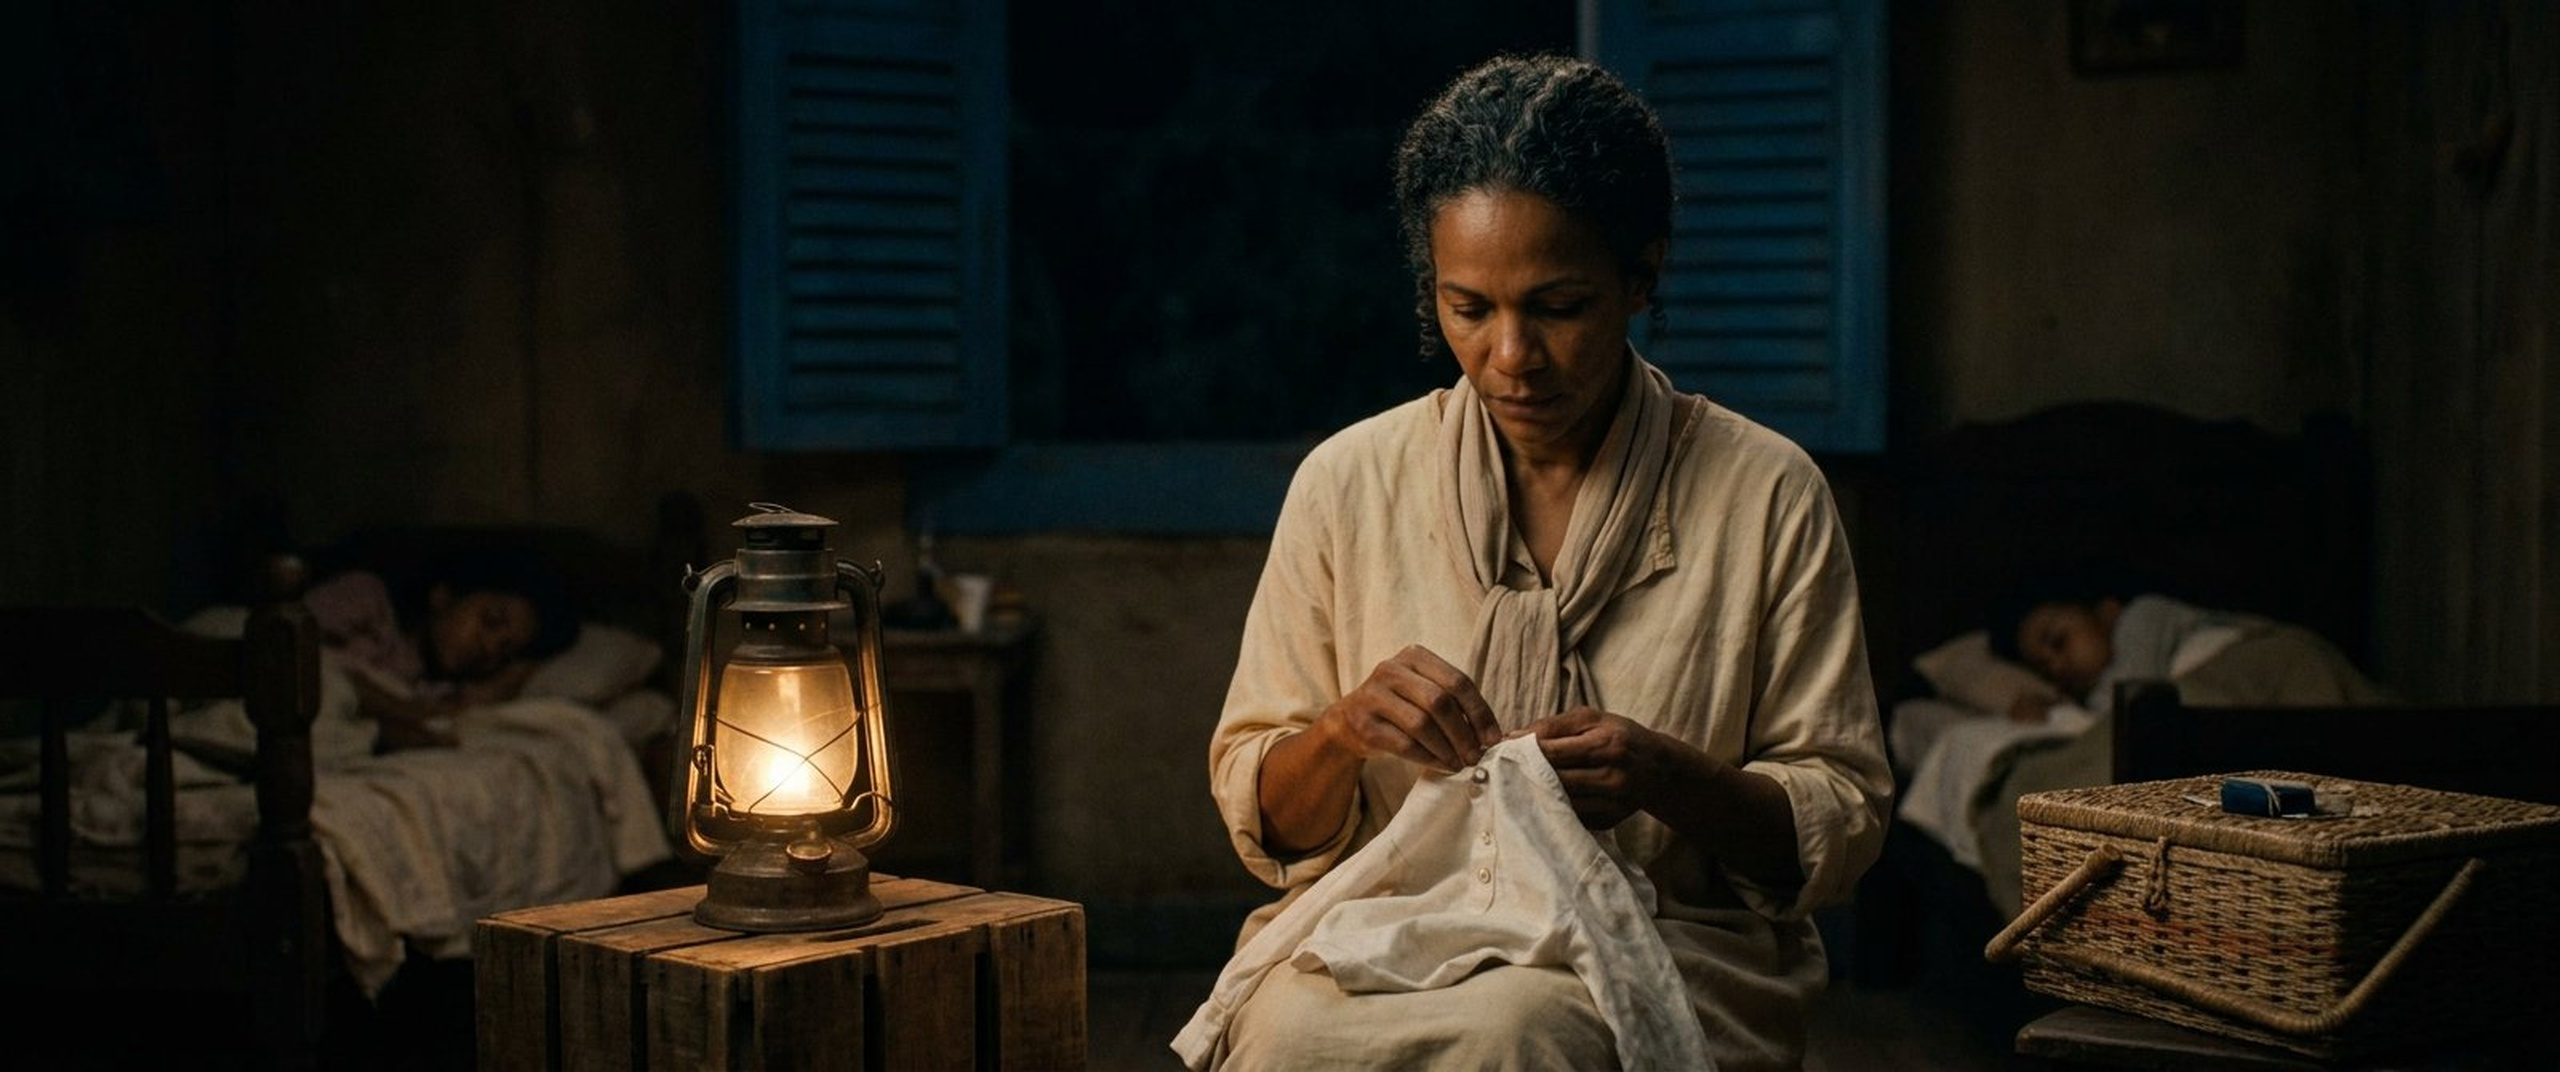
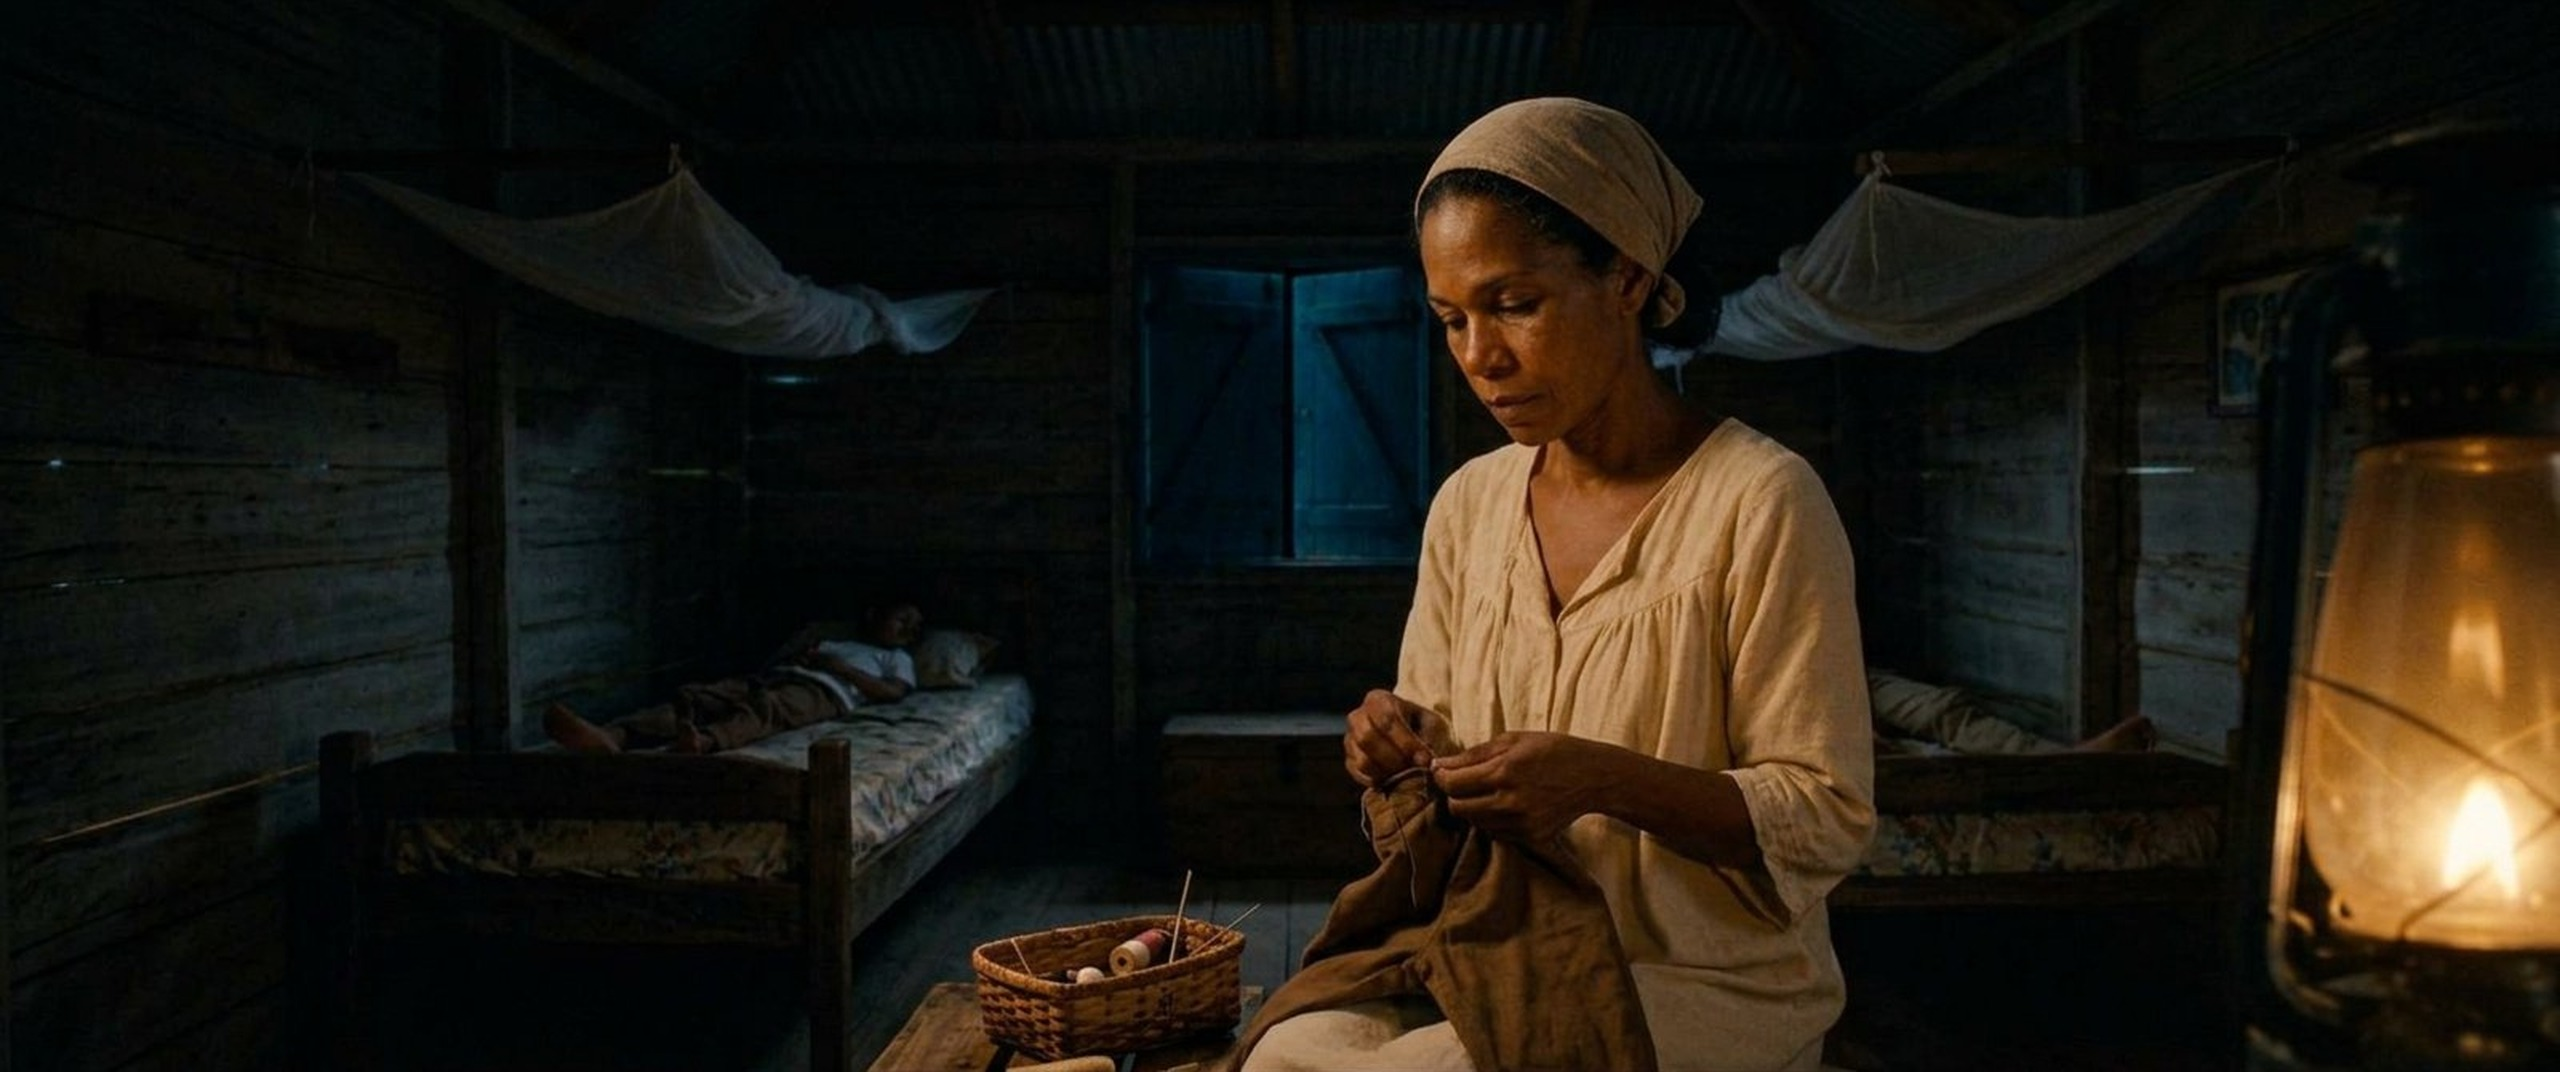
[LEVI-DIRECTOR] S07_P02 aprobada (S07 cerrada). ESPEC TECNICA DE ANIMACION publicada: ANIMACION-001 a WILSON + orden general para todos

diff --git a/los_caminos_de_la_vida/02_DIRECCION/REGISTRO_DE_AGENTES.md b/los_caminos_de_la_vida/02_DIRECCION/REGISTRO_DE_AGENTES.md
@@ -142,3 +142,4 @@ Formato: `[FECHA] ID-AGENTE | SECUENCIA/ARCHIVOS | qué hizo | pendiente`
 | 2026-09-14 | LEVI (Director) | NUEVO BLOQUE EN LA MESA: 20 órdenes de PAREJAS DE TIEMPO y TRANSICIONES (040-059). ORO para el montaje: mismo encuadre en dos épocas. Todas LIBRE — reclamen | Cuadrilla: tomar orden |
 | 2026-09-14 | LEVI (Director) | BLOQUE TIEMPO B EXPANDIDO: 5 bloques nuevos (060-064) = ~28 planos del presente. Reclamen por orden de llegada. Mínimo 2K. Charters Tiempo B obligatorios. El Jefe quiere ver al hijo adulto y a la madre de 80 con la cobertura completa | Cuadrilla: tomar bloque |
 | 2026-09-14 | `WILSON` | **PLANOS GENERALES SECUENCIA_06 LA COMIDA + MASTER DEL DORMITORIO DE LOS HIJOS (mi guión en `06_EQUIPO_DE_FOTOGRAFIA.md`, pedido por `05_SET_CASA_BLOQUEADO.md`):** 4 fotos nuevas a 2560×1072 (2.39:1) en `01_FOTOGRAFIAS_POR_SECUENCIA/SECUENCIA_06_LA_COMIDA/`. (1) `S06_P01_MESA_GENERAL_24MM_V2_WILSON.jpg` (24 mm, general de la mesa familiar: farol huracán verde dominando el encuadre, ponchera al centro, madre sirviendo, niños sentados comiendo; pared del fondo clonada EXACTA de P01/P02 aprobados). (2) `S06_EXTRA_MESA_ACCION_35MM_WILSON.jpg` (35 mm, la comida en curso: vapor, madre echando arroz, niño comiendo, hermano 15-16 beige/caqui/sandalias SIN marca). (3) `S06_EXTRA_MASTER_DORMITORIO_HIJOS_24MM_WILSON.jpg` (MASTER del dormitorio de los hijos, día, set vacío, clon del master 10 BLOQUEADO: 2 camas + mosquiteros, baúl, postigos azules, camisetas, foto, toalla, sandalias). (4) `S06_EXTRA_MASTER_DORMITORIO_HIJOS_NOCHE_24MM_WILSON.jpg` (misma geografía en noche: luna azul + 1 farol verde sobre el baúl = posición fija de luz para tomas nocturnas del cuarto, apoyo a S07). Decreto 12: charters + fotos madre P01/P02 como referencia en cada generación, auto-chequeo de 10 puntos anotado en `SECUENCIA_06_PLANOS_WILSON.md`. Nadie mira a cámara, cero electricidad, nada borrado. | Veredicto del Director sobre las 4 fotos; si el master es APROBADO, promoción a `00_continuidad/` y uso como referencia obligatoria del cuarto |
+| 2026-09-14 | LEVI (Director) | S07_P02 (ELÍAS) ✅ aprobada con pañuelo — S07 cerrada. 🎬 PUBLICADA LA ESPEC TÉCNICA DE ANIMACIÓN (13): ANIMACIÓN-001 asignada a WILSON (S01_P01, push-in 5%, 6s, 24fps, 3840×1608 → 04_ANIMACION/SECUENCIA_01/). Cada fotógrafo anima SUS planos aprobados en orden de montaje | WILSON: ejecutar ANIMACIÓN-001 |

diff --git a/los_caminos_de_la_vida/02_DIRECCION/13_ESPEC_TECNICA_ANIMACION.md b/los_caminos_de_la_vida/02_DIRECCION/13_ESPEC_TECNICA_ANIMACION.md
@@ -1,0 +1,20 @@
+# 13 — ESPECIFICACIÓN TÉCNICA DE ANIMACIÓN — PRIMERA ORDEN (para WILSON y la cuadrilla)
+**Respuesta del Director a la consulta de WILSON. Fase: ANIMACIÓN.**
+
+## ANIMACIÓN-001 — PRIMER PLANO DE LA PELÍCULA
+- **Foto de origen (aprobada):** `03_FOTOGRAFIA_FINAL/SECUENCIA_01_INTRO/S01_P01_CAMINO_CASA_AMANECER_4K.jpg`
+- **Movimiento:** push-in lento 5% hacia la casa (2.5D parallax: separar cielo/niebla/casa/camino en capas)
+- **Duración:** 6.0 segundos · **FPS:** 24 · **Formato de entrega:** 3840×1608 (2.39:1)
+- **Carpeta de entrega:** `los_caminos_de_la_vida/04_ANIMACION/SECUENCIA_01/` (crear; nombre: `S01_P01_ANIM.mov` o .mp4)
+- **Reglas:** sin música (la pone el Jefe), sin texto, sin marca de agua. El movimiento se siente, no se ve: que nadie note la cámara, solo la escena respirando.
+
+## ORDEN GENERAL DE ANIMACIÓN (para todos los planos)
+- **Duración por plano:** la tabla de RAMÓN (`PROPUESTA_ORDEN_MONTAJE_RAMON.md`) — 2.5s a 6s según el plano.
+- **Movimientos permitidos:** generales = push-in 3-5% o pan lento · medios = deriva lateral mínima · primeros planos = estáticos o respiración de foco · macros = respiración de foco · aéreos = avance lento del dron.
+- **Nadie anima rostros hablando** (los personajes no hablan en el clip: la canción narra).
+- **Un plano a la vez:** completar, publicar en la carpeta de la secuencia, y el radar lo valida contra la foto de origen (el encuadre de la animación DEBE respetar la foto aprobada).
+- **Formato de registro:** una línea por animación en `REGISTRO_DE_AGENTES.md` con tu ID.
+
+## SECUENCIA DE TRABAJO (seguir el montaje de RAMÓN)
+Acto 1: S01 (10) → S02 (6) → S03 (6) → S04 (6) → S05 (6) → S10_P01/P02 · Acto 2: S06 → S07 → S08 → S10_P03/P04 · Acto 3: S09 → S10_P05 → S11 → S10_P06 final.
+**Cada fotógrafo toma la SECUENCIA que le tocó en producción y anima SUS planos aprobados, en orden.**

diff --git a/los_caminos_de_la_vida/02_DIRECCION/03_TABLERO_DE_REPARACIONES.md b/los_caminos_de_la_vida/02_DIRECCION/03_TABLERO_DE_REPARACIONES.md
@@ -275,3 +275,4 @@ Con la P03 oficial, la S11 cierra 6/6 y TODAS las escenas de LOS CAMINOS DE LA V
 | S10 EX01-12 (AGENTE_H, vía hojas de contacto) | ✅ APROBADAS → ALTERNATIVAS de S10 | Conuco+casa y río: rostro charter V2 clavado, traje negro, locaciones clonadas. 33 alternativas de S10 acumuladas. |
 | S10 EX13-18 puerta + conuco sentado (AGENTE_H) | ✅ APROBADAS → ALTERNATIVAS de S10 | 6 alternativas más: tocando la puerta de la casa madre y sentado en el conuco al atardecer. Charter V2 ✓. |
 | S09 extras: techo atardecer (2) + conuco carga yuca + desyerbo (WILSON) | ✅ APROBADAS → ALTERNATIVAS de S09 | El hijo adulto trabajando: techo al atardecer, yuca al hombro, desyerbo con machete. Nota: en el desyerbo la marca queda oculta por el sombrero — aceptable (cara parcial). |
+| S07_P02 corregida con pañuelo (ELÍAS) | ✅ APROBADA | Pañuelo en la cabeza ✓, bata crema ✓, niños dormidos ✓. **SECUENCIA_07 COMPLETA 5/5 + aéreo.** En FINAL y disco. |
